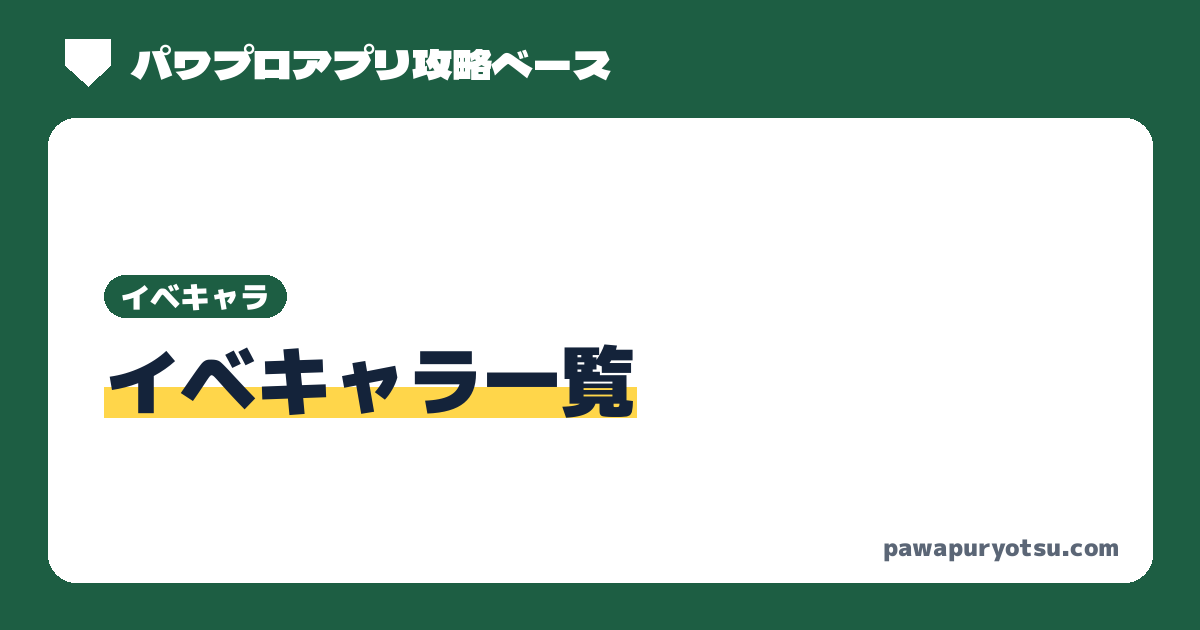
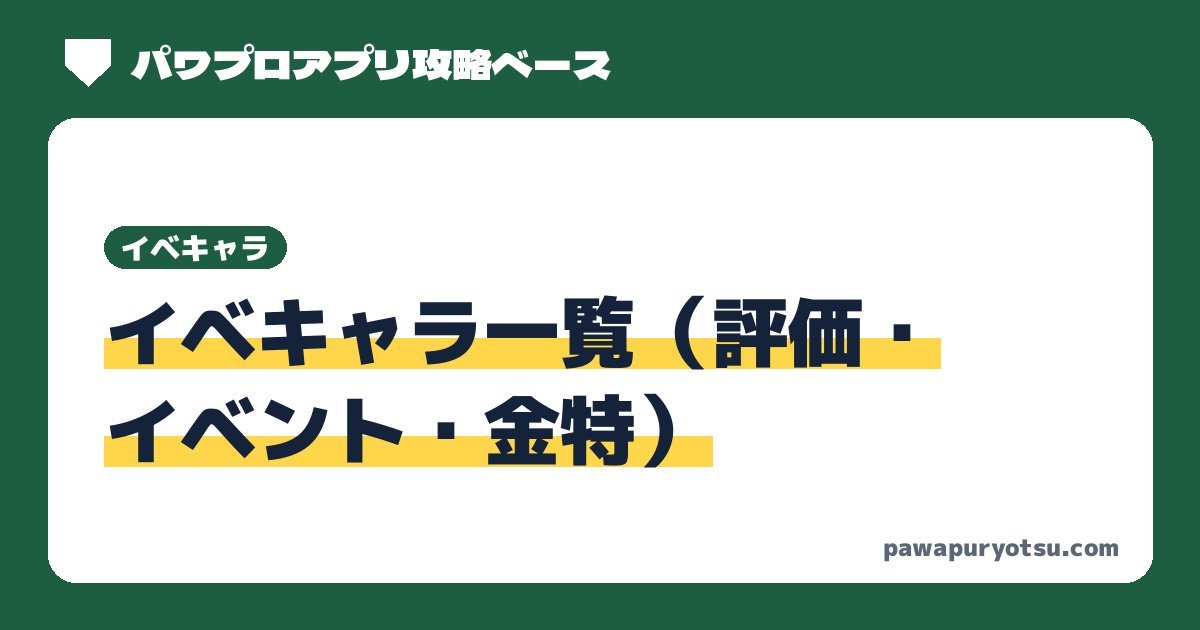
Search Console を元にタイトル改善・ランキングに「最強」・デッキ画像の遅延読み込み (#246)
- デッキページ：「ロマン開花学園（學園）のおすすめ投手デッキ○選」など（○はデッキ数を自動）
- キャラ：config.json の「タイトルに入れる別の呼び方」（らんま）を title に追加
- イベキャラ一覧：title に「評価・イベント・金特」
- ランキング：「検索用タイトル」で <title> だけ「最強イベキャラランキング」に
- デッキ画像：最初の2枚以外は loading="lazy"（見た目は変わらない）

Claude-Session: https://claude.ai/code/session_019YJeT13WnsCStd5DS7seEg

Changed region(s): [[0.0617, 0.3317, 0.8017, 0.754]]

diff --git a/docs/ranking/andromeda/index.html b/docs/ranking/andromeda/index.html
@@ -4,12 +4,12 @@
 <meta charset="utf-8">
 <meta name="viewport" content="width=device-width,initial-scale=1,viewport-fit=cover">
 <meta name="color-scheme" content="light">
-<title>アンドロメダ学園 11月ランキング｜パワプロアプリ攻略ベース</title>
+<title>アンドロメダ学園 最強イベキャラランキング【11月】｜パワプロアプリ攻略ベース</title>
 <meta name="description" content="パワプロアプリのイベキャラを、Tier表（SS・S・A・B）でランク付けしました。アンドロメダ学園 11月ランキングの評価基準と、各キャラのランクをまとめています。">
 <link rel="canonical" href="https://pawapuryotsu.com/ranking/andromeda/">
 <meta property="og:type" content="website">
 <meta property="og:site_name" content="パワプロアプリ攻略ベース">
-<meta property="og:title" content="アンドロメダ学園 11月ランキング｜パワプロアプリ攻略ベース">
+<meta property="og:title" content="アンドロメダ学園 最強イベキャラランキング【11月】｜パワプロアプリ攻略ベース">
 <meta property="og:description" content="パワプロアプリのイベキャラを、Tier表（SS・S・A・B）でランク付けしました。アンドロメダ学園 11月ランキングの評価基準と、各キャラのランクをまとめています。">
 <meta property="og:url" content="https://pawapuryotsu.com/ranking/andromeda/">
 <meta property="og:image" content="https://pawapuryotsu.com/img/og/ranking_andromeda.png">
@@ -30,7 +30,7 @@
 <script async src="https://www.googletagmanager.com/gtag/js?id=G-F98XGNW3LS"></script>
 <script>window.dataLayer=window.dataLayer||[];function gtag(){dataLayer.push(arguments)}gtag('js',new Date());gtag('config','G-F98XGNW3LS');</script><meta name="google-site-verification" content="ZgxID967oum-2Mm1F5BCX9gvQE_vNl2ZDbXXWfyYP10" />
 <script type="application/ld+json">{"@context": "https://schema.org", "@type": "BreadcrumbList", "itemListElement": [{"@type": "ListItem", "position": 1, "name": "トップ", "item": "https://pawapuryotsu.com/"}, {"@type": "ListItem", "position": 2, "name": "アンドロメダ学園 11月ランキング", "item": "https://pawapuryotsu.com/ranking/andromeda/"}]}</script>
-<script type="application/ld+json">{"@context": "https://schema.org", "@type": "Article", "headline": "アンドロメダ学園 11月ランキング", "datePublished": "2026-11-05", "dateModified": "2026-11-12", "image": "https://pawapuryotsu.com/img/og/ranking_andromeda.png", "author": {"@type": "Person", "name": "りょーつー", "url": "https://pawapuryotsu.com/about/"}}</script>
+<script type="application/ld+json">{"@context": "https://schema.org", "@type": "Article", "headline": "アンドロメダ学園 最強イベキャラランキング【11月】", "datePublished": "2026-11-05", "dateModified": "2026-11-12", "image": "https://pawapuryotsu.com/img/og/ranking_andromeda.png", "author": {"@type": "Person", "name": "りょーつー", "url": "https://pawapuryotsu.com/about/"}}</script>
 </head>
 <body data-root="../../">
 <svg width="0" height="0" style="position:absolute" aria-hidden="true">

diff --git a/docs/ranking/roman/index.html b/docs/ranking/roman/index.html
@@ -4,12 +4,12 @@
 <meta charset="utf-8">
 <meta name="viewport" content="width=device-width,initial-scale=1,viewport-fit=cover">
 <meta name="color-scheme" content="light">
-<title>ロマン開花學園 11月ランキング｜パワプロアプリ攻略ベース</title>
+<title>ロマン開花学園（學園）最強イベキャラランキング【11月】｜パワプロアプリ攻略ベース</title>
 <meta name="description" content="パワプロアプリのイベキャラを、Tier表（SS・S・A・B）でランク付けしました。ロマン開花學園 11月ランキングの評価基準と、各キャラのランクをまとめています。">
 <link rel="canonical" href="https://pawapuryotsu.com/ranking/roman/">
 <meta property="og:type" content="website">
 <meta property="og:site_name" content="パワプロアプリ攻略ベース">
-<meta property="og:title" content="ロマン開花學園 11月ランキング｜パワプロアプリ攻略ベース">
+<meta property="og:title" content="ロマン開花学園（學園）最強イベキャラランキング【11月】｜パワプロアプリ攻略ベース">
 <meta property="og:description" content="パワプロアプリのイベキャラを、Tier表（SS・S・A・B）でランク付けしました。ロマン開花學園 11月ランキングの評価基準と、各キャラのランクをまとめています。">
 <meta property="og:url" content="https://pawapuryotsu.com/ranking/roman/">
 <meta property="og:image" content="https://pawapuryotsu.com/img/og/ranking_roman.png">
@@ -30,7 +30,7 @@
 <script async src="https://www.googletagmanager.com/gtag/js?id=G-F98XGNW3LS"></script>
 <script>window.dataLayer=window.dataLayer||[];function gtag(){dataLayer.push(arguments)}gtag('js',new Date());gtag('config','G-F98XGNW3LS');</script><meta name="google-site-verification" content="ZgxID967oum-2Mm1F5BCX9gvQE_vNl2ZDbXXWfyYP10" />
 <script type="application/ld+json">{"@context": "https://schema.org", "@type": "BreadcrumbList", "itemListElement": [{"@type": "ListItem", "position": 1, "name": "トップ", "item": "https://pawapuryotsu.com/"}, {"@type": "ListItem", "position": 2, "name": "ロマン開花學園 11月ランキング", "item": "https://pawapuryotsu.com/ranking/roman/"}]}</script>
-<script type="application/ld+json">{"@context": "https://schema.org", "@type": "Article", "headline": "ロマン開花學園 11月ランキング", "datePublished": "2026-11-05", "dateModified": "2026-11-12", "image": "https://pawapuryotsu.com/img/og/ranking_roman.png", "author": {"@type": "Person", "name": "りょーつー", "url": "https://pawapuryotsu.com/about/"}}</script>
+<script type="application/ld+json">{"@context": "https://schema.org", "@type": "Article", "headline": "ロマン開花学園（學園）最強イベキャラランキング【11月】", "datePublished": "2026-11-05", "dateModified": "2026-11-12", "image": "https://pawapuryotsu.com/img/og/ranking_roman.png", "author": {"@type": "Person", "name": "りょーつー", "url": "https://pawapuryotsu.com/about/"}}</script>
 </head>
 <body data-root="../../">
 <svg width="0" height="0" style="position:absolute" aria-hidden="true">

diff --git a/docs/decks/roman/index.html b/docs/decks/roman/index.html
@@ -4,12 +4,12 @@
 <meta charset="utf-8">
 <meta name="viewport" content="width=device-width,initial-scale=1,viewport-fit=cover">
 <meta name="color-scheme" content="light">
-<title>ロマン開花學園のデッキまとめ（投手向け）｜パワプロアプリ攻略ベース</title>
+<title>ロマン開花学園（學園）のおすすめ投手デッキ8選｜パワプロアプリ攻略ベース</title>
 <meta name="description" content="パワプロアプリのサクセス「ロマン開花學園（ロマン開花学園）」で実際に使った投手向けデッキまとめ。育成結果（選手ランク・総経験点）、メイン・サポートデッキ、得意練習・練習効果・タッグボーナス、育成のポイントを掲載。">
 <link rel="canonical" href="https://pawapuryotsu.com/decks/roman/">
 <meta property="og:type" content="website">
 <meta property="og:site_name" content="パワプロアプリ攻略ベース">
-<meta property="og:title" content="ロマン開花學園のデッキまとめ（投手向け）｜パワプロアプリ攻略ベース">
+<meta property="og:title" content="ロマン開花学園（學園）のおすすめ投手デッキ8選｜パワプロアプリ攻略ベース">
 <meta property="og:description" content="パワプロアプリのサクセス「ロマン開花學園（ロマン開花学園）」で実際に使った投手向けデッキまとめ。育成結果（選手ランク・総経験点）、メイン・サポートデッキ、得意練習・練習効果・タッグボーナス、育成のポイントを掲載。">
 <meta property="og:url" content="https://pawapuryotsu.com/decks/roman/">
 <meta property="og:image" content="https://pawapuryotsu.com/img/og/decks_roman.png">
@@ -103,6 +103,6 @@
   <p>個人が運営する非公式の攻略サイトです。株式会社コナミデジタルエンタテインメントとは関係ありません。<br>デッキ紹介のゲーム画面やキャラクターのアイコンなど、ゲームの画像の権利は ©Konami Digital Entertainment に帰属します。サイトの装飾（ロゴ・線・アイコン）は自作です。</p>
 </div></footer>
 <script src="../../assets/decks.js?v=0780c460"></script>
-<script src="../../assets/deck.js?v=507186f3"></script>
+<script src="../../assets/deck.js?v=bb21857e"></script>
 </body>
 </html>

diff --git a/docs/decks/andromeda/index.html b/docs/decks/andromeda/index.html
@@ -4,12 +4,12 @@
 <meta charset="utf-8">
 <meta name="viewport" content="width=device-width,initial-scale=1,viewport-fit=cover">
 <meta name="color-scheme" content="light">
-<title>アンドロメダ学園のデッキまとめ（野手向け）｜パワプロアプリ攻略ベース</title>
+<title>アンドロメダ学園のおすすめ野手デッキ11選｜パワプロアプリ攻略ベース</title>
 <meta name="description" content="パワプロアプリのサクセス「アンドロメダ学園」で実際に使った野手向けデッキまとめ。育成結果（選手ランク・総経験点）、メイン・サポートデッキ、コツイベントボーナス・試合経験点ボーナス、育成のポイントを掲載。">
 <link rel="canonical" href="https://pawapuryotsu.com/decks/andromeda/">
 <meta property="og:type" content="website">
 <meta property="og:site_name" content="パワプロアプリ攻略ベース">
-<meta property="og:title" content="アンドロメダ学園のデッキまとめ（野手向け）｜パワプロアプリ攻略ベース">
+<meta property="og:title" content="アンドロメダ学園のおすすめ野手デッキ11選｜パワプロアプリ攻略ベース">
 <meta property="og:description" content="パワプロアプリのサクセス「アンドロメダ学園」で実際に使った野手向けデッキまとめ。育成結果（選手ランク・総経験点）、メイン・サポートデッキ、コツイベントボーナス・試合経験点ボーナス、育成のポイントを掲載。">
 <meta property="og:url" content="https://pawapuryotsu.com/decks/andromeda/">
 <meta property="og:image" content="https://pawapuryotsu.com/img/og/decks_andromeda.png">
@@ -107,6 +107,6 @@
   <p>個人が運営する非公式の攻略サイトです。株式会社コナミデジタルエンタテインメントとは関係ありません。<br>デッキ紹介のゲーム画面やキャラクターのアイコンなど、ゲームの画像の権利は ©Konami Digital Entertainment に帰属します。サイトの装飾（ロゴ・線・アイコン）は自作です。</p>
 </div></footer>
 <script src="../../assets/decks.js?v=0780c460"></script>
-<script src="../../assets/deck.js?v=507186f3"></script>
+<script src="../../assets/deck.js?v=bb21857e"></script>
 </body>
 </html>

diff --git a/docs/assets/deck.js b/docs/assets/deck.js
@@ -133,13 +133,14 @@ function renderList(){
   const open=new Set([...document.querySelectorAll("details.deck[open]")].map(e=>e.dataset.id));
   document.getElementById("count").textContent=`${decks.length}件 / 全${s.list.length}件`;
   const ts=terms();
-  document.getElementById("list").innerHTML=decks.length?decks.map(d=>{
+  document.getElementById("list").innerHTML=decks.length?decks.map((d,i)=>{
+    const lz=i<2?"":` loading="lazy"`;   // 上の2件以外の画像は、画面に近づいてから読み込む（表示を速くする）
     const id=d.d; const lbl=`${SCHOOL_NAME[state.school]} ${d.pos}デッキ（選手ランク${d.rank}）`; const hits=[...new Set([...d.main,...d.sub].map(x=>x[0]).filter(n=>ts.some(t=>matchesTerm(n,t))))];
     return `<details class="deck" data-id="${id}" ${open.has(id)?"open":""}>
       <summary>
-        <div class="top"><div class="lft"><img src="${IMG[d.r]}" alt="ポジション${d.pos}・選手ランク${d.rank}・総経験点${fmt(d.exp)}">${d.f2p?`<span class="f2ptag">無課金</span>`:""}</div><span class="chev" aria-hidden="true">▾</span></div>
+        <div class="top"><div class="lft"><img src="${IMG[d.r]}"${lz} alt="ポジション${d.pos}・選手ランク${d.rank}・総経験点${fmt(d.exp)}">${d.f2p?`<span class="f2ptag">無課金</span>`:""}</div><span class="chev" aria-hidden="true">▾</span></div>
         ${hits.length?`<div class="hit">検索に一致：${hits.map(h=>`<mark>${esc(h)}</mark>`).join(" ")}</div>`:""}
-        <img class="deckimg" src="${IMG[d.d]}" alt="${esc(lbl)}のメインデッキ">
+        <img class="deckimg" src="${IMG[d.d]}"${lz} alt="${esc(lbl)}のメインデッキ">
       </summary>
       ${d.s?`<img class="subdeck" src="${IMG[d.s]}" alt="${esc(lbl)}のサポートデッキ" loading="lazy">`:`<div class="subimg">サポートデッキのスクショ</div>`}
       ${d.u?`<img class="baseimg${state.school==="roman"?" half":""}" src="${IMG[d.u]}" alt="${esc(lbl)}の基礎上限" loading="lazy">`:`<div class="subimg">基礎上限のスクショ</div>`}

diff --git a/src/assets/deck.js b/src/assets/deck.js
@@ -133,13 +133,14 @@ function renderList(){
   const open=new Set([...document.querySelectorAll("details.deck[open]")].map(e=>e.dataset.id));
   document.getElementById("count").textContent=`${decks.length}件 / 全${s.list.length}件`;
   const ts=terms();
-  document.getElementById("list").innerHTML=decks.length?decks.map(d=>{
+  document.getElementById("list").innerHTML=decks.length?decks.map((d,i)=>{
+    const lz=i<2?"":` loading="lazy"`;   // 上の2件以外の画像は、画面に近づいてから読み込む（表示を速くする）
     const id=d.d; const lbl=`${SCHOOL_NAME[state.school]} ${d.pos}デッキ（選手ランク${d.rank}）`; const hits=[...new Set([...d.main,...d.sub].map(x=>x[0]).filter(n=>ts.some(t=>matchesTerm(n,t))))];
     return `<details class="deck" data-id="${id}" ${open.has(id)?"open":""}>
       <summary>
-        <div class="top"><div class="lft"><img src="${IMG[d.r]}" alt="ポジション${d.pos}・選手ランク${d.rank}・総経験点${fmt(d.exp)}">${d.f2p?`<span class="f2ptag">無課金</span>`:""}</div><span class="chev" aria-hidden="true">▾</span></div>
+        <div class="top"><div class="lft"><img src="${IMG[d.r]}"${lz} alt="ポジション${d.pos}・選手ランク${d.rank}・総経験点${fmt(d.exp)}">${d.f2p?`<span class="f2ptag">無課金</span>`:""}</div><span class="chev" aria-hidden="true">▾</span></div>
         ${hits.length?`<div class="hit">検索に一致：${hits.map(h=>`<mark>${esc(h)}</mark>`).join(" ")}</div>`:""}
-        <img class="deckimg" src="${IMG[d.d]}" alt="${esc(lbl)}のメインデッキ">
+        <img class="deckimg" src="${IMG[d.d]}"${lz} alt="${esc(lbl)}のメインデッキ">
       </summary>
       ${d.s?`<img class="subdeck" src="${IMG[d.s]}" alt="${esc(lbl)}のサポートデッキ" loading="lazy">`:`<div class="subimg">サポートデッキのスクショ</div>`}
       ${d.u?`<img class="baseimg${state.school==="roman"?" half":""}" src="${IMG[d.u]}" alt="${esc(lbl)}の基礎上限" loading="lazy">`:`<div class="subimg">基礎上限のスクショ</div>`}

diff --git a/docs/chars/0002/index.html b/docs/chars/0002/index.html
@@ -4,12 +4,12 @@
 <meta charset="utf-8">
 <meta name="viewport" content="width=device-width,initial-scale=1,viewport-fit=cover">
 <meta name="color-scheme" content="light">
-<title>早乙女乱馬の評価とイベント・金特｜パワプロアプリ攻略ベース</title>
+<title>早乙女乱馬（らんま）の評価とイベント・金特｜パワプロアプリ攻略ベース</title>
 <meta name="description" content="パワプロアプリ（サクセス・パワクエ共通）のイベキャラ 早乙女乱馬（さおとめらんま） の評価（シナリオ別ランキング・長所と短所）、ボーナス、金特、イベント選択肢、選手能力をまとめています。">
 <link rel="canonical" href="https://pawapuryotsu.com/chars/0002/">
 <meta property="og:type" content="website">
 <meta property="og:site_name" content="パワプロアプリ攻略ベース">
-<meta property="og:title" content="早乙女乱馬の評価とイベント・金特｜パワプロアプリ攻略ベース">
+<meta property="og:title" content="早乙女乱馬（らんま）の評価とイベント・金特｜パワプロアプリ攻略ベース">
 <meta property="og:description" content="パワプロアプリ（サクセス・パワクエ共通）のイベキャラ 早乙女乱馬（さおとめらんま） の評価（シナリオ別ランキング・長所と短所）、ボーナス、金特、イベント選択肢、選手能力をまとめています。">
 <meta property="og:url" content="https://pawapuryotsu.com/chars/0002/">
 <meta property="og:image" content="https://pawapuryotsu.com/img/og/chars_0002.png">

diff --git a/docs/chars/index.html b/docs/chars/index.html
@@ -4,12 +4,12 @@
 <meta charset="utf-8">
 <meta name="viewport" content="width=device-width,initial-scale=1,viewport-fit=cover">
 <meta name="color-scheme" content="light">
-<title>イベキャラ一覧｜パワプロアプリ攻略ベース</title>
+<title>イベキャラ一覧（評価・イベント・金特）｜パワプロアプリ攻略ベース</title>
 <meta name="description" content="パワプロアプリのイベキャラのボーナス・金特・イベントをまとめたページの一覧です。名前や読みで検索できます。">
 <link rel="canonical" href="https://pawapuryotsu.com/chars/">
 <meta property="og:type" content="website">
 <meta property="og:site_name" content="パワプロアプリ攻略ベース">
-<meta property="og:title" content="イベキャラ一覧｜パワプロアプリ攻略ベース">
+<meta property="og:title" content="イベキャラ一覧（評価・イベント・金特）｜パワプロアプリ攻略ベース">
 <meta property="og:description" content="パワプロアプリのイベキャラのボーナス・金特・イベントをまとめたページの一覧です。名前や読みで検索できます。">
 <meta property="og:url" content="https://pawapuryotsu.com/chars/">
 <meta property="og:image" content="https://pawapuryotsu.com/img/og/chars.png">

diff --git a/src/pages/roman.html b/src/pages/roman.html
@@ -1,5 +1,6 @@
 <!--
-title: ロマン開花學園のデッキまとめ（投手向け）｜パワプロアプリ攻略ベース
+title: ロマン開花学園（學園）のおすすめ投手デッキ{{deck_count_roman}}選｜パワプロアプリ攻略ベース
+crumb: ロマン開花學園のデッキまとめ（投手向け）
 description: パワプロアプリのサクセス「ロマン開花學園（ロマン開花学園）」で実際に使った投手向けデッキまとめ。育成結果（選手ランク・総経験点）、メイン・サポートデッキ、得意練習・練習効果・タッグボーナス、育成のポイントを掲載。
 path: decks/roman/
 nav: roman

diff --git a/src/pages/andromeda.html b/src/pages/andromeda.html
@@ -1,5 +1,6 @@
 <!--
-title: アンドロメダ学園のデッキまとめ（野手向け）｜パワプロアプリ攻略ベース
+title: アンドロメダ学園のおすすめ野手デッキ{{deck_count_andromeda}}選｜パワプロアプリ攻略ベース
+crumb: アンドロメダ学園のデッキまとめ（野手向け）
 description: パワプロアプリのサクセス「アンドロメダ学園」で実際に使った野手向けデッキまとめ。育成結果（選手ランク・総経験点）、メイン・サポートデッキ、コツイベントボーナス・試合経験点ボーナス、育成のポイントを掲載。
 path: decks/andromeda/
 nav: andromeda

diff --git a/charpages.py b/charpages.py
@@ -833,7 +833,8 @@ def generate(chars_path, src, decks, noindex=True):
         items.append((pid, c, full))
         # 評価が書いてあるキャラは title に「評価」を入れる（検索で多い「キャラ名 評価」に合わせる。2026-11-12 管理人OK）
         if has_eval(c, text):
-            meta = (f"title: {full}の評価とイベント・金特｜パワプロアプリ攻略ベース\n"
+            alias = config.get("タイトルに入れる別の呼び方", {}).get(name)   # 例 早乙女乱馬 → らんま（検索は「らんま」が多い。Search Console 2026-11-12）
+            meta = (f"title: {full}{'（' + alias + '）' if alias else ''}の評価とイベント・金特｜パワプロアプリ攻略ベース\n"
                     f"description: パワプロアプリ（サクセス・パワクエ共通）のイベキャラ {full}{yomi_paren(c)} の評価（シナリオ別ランキング・長所と短所）、ボーナス、金特、イベント選択肢、選手能力をまとめています。\n")
         else:
             meta = (f"title: {full}のデータ・イベントまとめ｜パワプロアプリ攻略ベース\n"
@@ -952,7 +953,7 @@ def index_page(items, config, noindex):
                    f'<span class="cl-tag">{e(kind)}</span></a></li>')
     kinds_ = sorted({char_type(c, config["種別の判定"]) for _, c, _ in items if not c.get("_準備中")}) if items else []
     chips = "".join(f'<button type="button" class="cl-chip" data-t="{e(k)}">{e(k)}</button>' for k in kinds_)
-    meta = ("title: イベキャラ一覧｜パワプロアプリ攻略ベース\n"
+    meta = ("title: イベキャラ一覧（評価・イベント・金特）｜パワプロアプリ攻略ベース\ncrumb: イベキャラ一覧\n"
             "description: パワプロアプリのイベキャラのボーナス・金特・イベントをまとめたページの一覧です。名前や読みで検索できます。\n"
             "path: chars/\nnav: none\n" + ("noindex: yes\n" if noindex else ""))
     body = (f'''<section class="phead"><p class="eyebrow">イベキャラ</p><h1>イベキャラ一覧</h1></section>
@@ -1164,7 +1165,8 @@ def ranking_pages(items, config, chars, chars_path):
                 + (f'<div class="tier-table">{rows}</div>' if n else '<p class="muted">準備中です。</p>')
                 + (bonus_table_html(r, chars, bt_icons) if r.get("ボーナス表") else "")
                 + guide_html(r))   # キャラごとの評価文章は、各キャラのページ（src/chars/texts/<名前>.json の「評価」）にだけ書く
-        meta = "\n".join([f'title: {r["title"]}｜パワプロアプリ攻略ベース',
+        # 「検索用タイトル」があれば <title> だけそれにする（見出し・パンくず・SNS画像は title のまま。2026-11-12 管理人OK）
+        meta = "\n".join([f'title: {r.get("検索用タイトル") or r["title"]}｜パワプロアプリ攻略ベース', f'crumb: {r["title"]}', f'og_title: {r["title"]}',
                           f'description: パワプロアプリのイベキャラを、Tier表（{"・".join(t for t in TIERS if r["ランク"].get(t))}）でランク付けしました。{r["title"]}の評価基準と、各キャラのランクをまとめています。',
                           f'path: {r["path"]}', "nav: none"] + ([] if r.get("公開") else ["noindex: yes"])) + "\n"
         pages.append(f"<!--\n{meta}-->\n{body}")

diff --git a/build.py b/build.py
@@ -192,7 +192,7 @@ def og_image(meta, path):
     if path == "":
         title, label = "パワプロアプリ ガチ勢による最先端攻略サイト", ""
     else:
-        title = meta.get("og_title") or meta["title"].split("｜")[0]
+        title = meta.get("og_title") or (meta.get("crumb") if "{{" in meta["title"] else None) or meta["title"].split("｜")[0]
         label = next((l for pre, l in OG_LABEL if path.startswith(pre)), "")
     icon = meta.get("og_icon") or (f"img/chars/{path.split('/')[1]}.png" if re.fullmatch(r"chars/\d{4}/", path) else None)
     icon = out / icon if icon and (out / icon).exists() else None
@@ -264,6 +264,8 @@ for meta, body in _parsed:
            "contact_block": contact_block(), "policy_date": POLICY_DATE, "ad": ad_block(), "gacha_cards": _gacha_cards,
            "og_image": og_image(meta, path)}
     # トップのランキングカードの評価日は、ランキングページ（src/ranking/ranking.json）の評価日を自動で使う（管理人指示 2026-11-10）。{{rk_date_roman}} など
+    for _k, _d in DECKS.items():   # デッキページの title の「○選」（デッキの数。自動）
+        rep["deck_count_" + _k] = str(len(_d["list"]))
     for _k, _r in charpages._RANKING.get("ranking", {}).items():
         rep["rk_date_" + _k] = f'【評価日{_r["評価日"]}】' if _r.get("評価日") else ""
     if meta.get("school") in DECKS:
